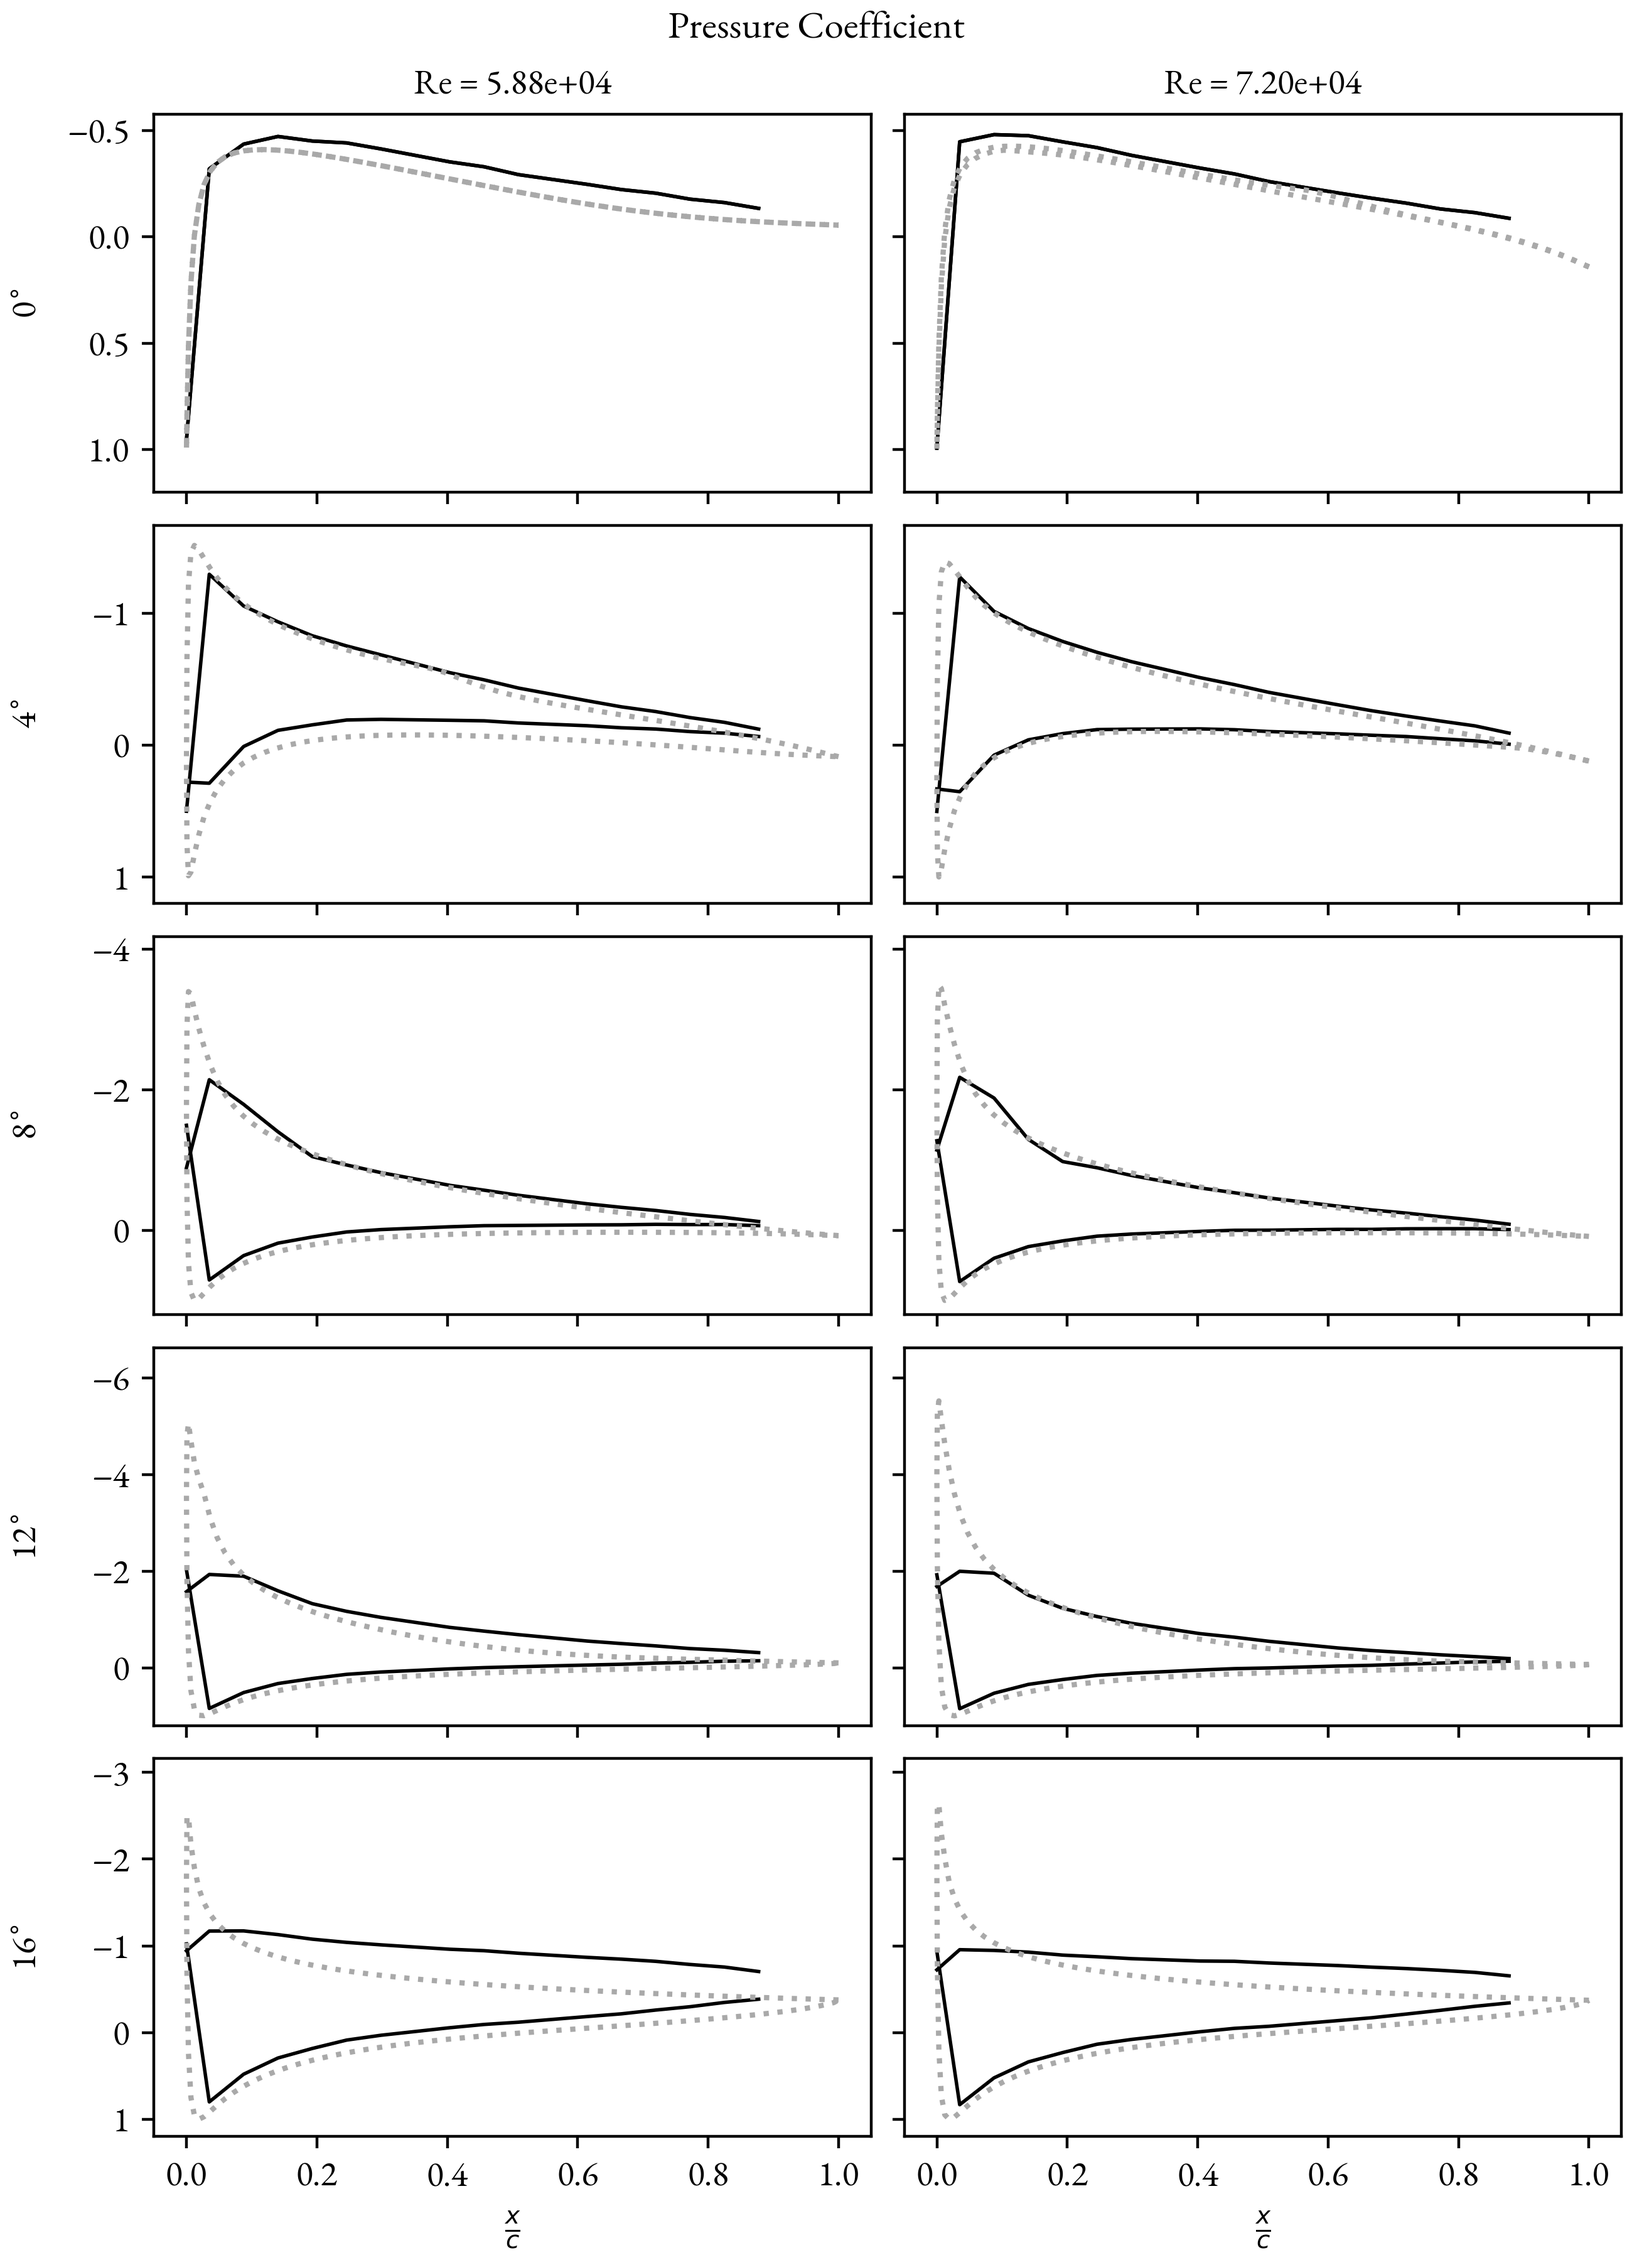
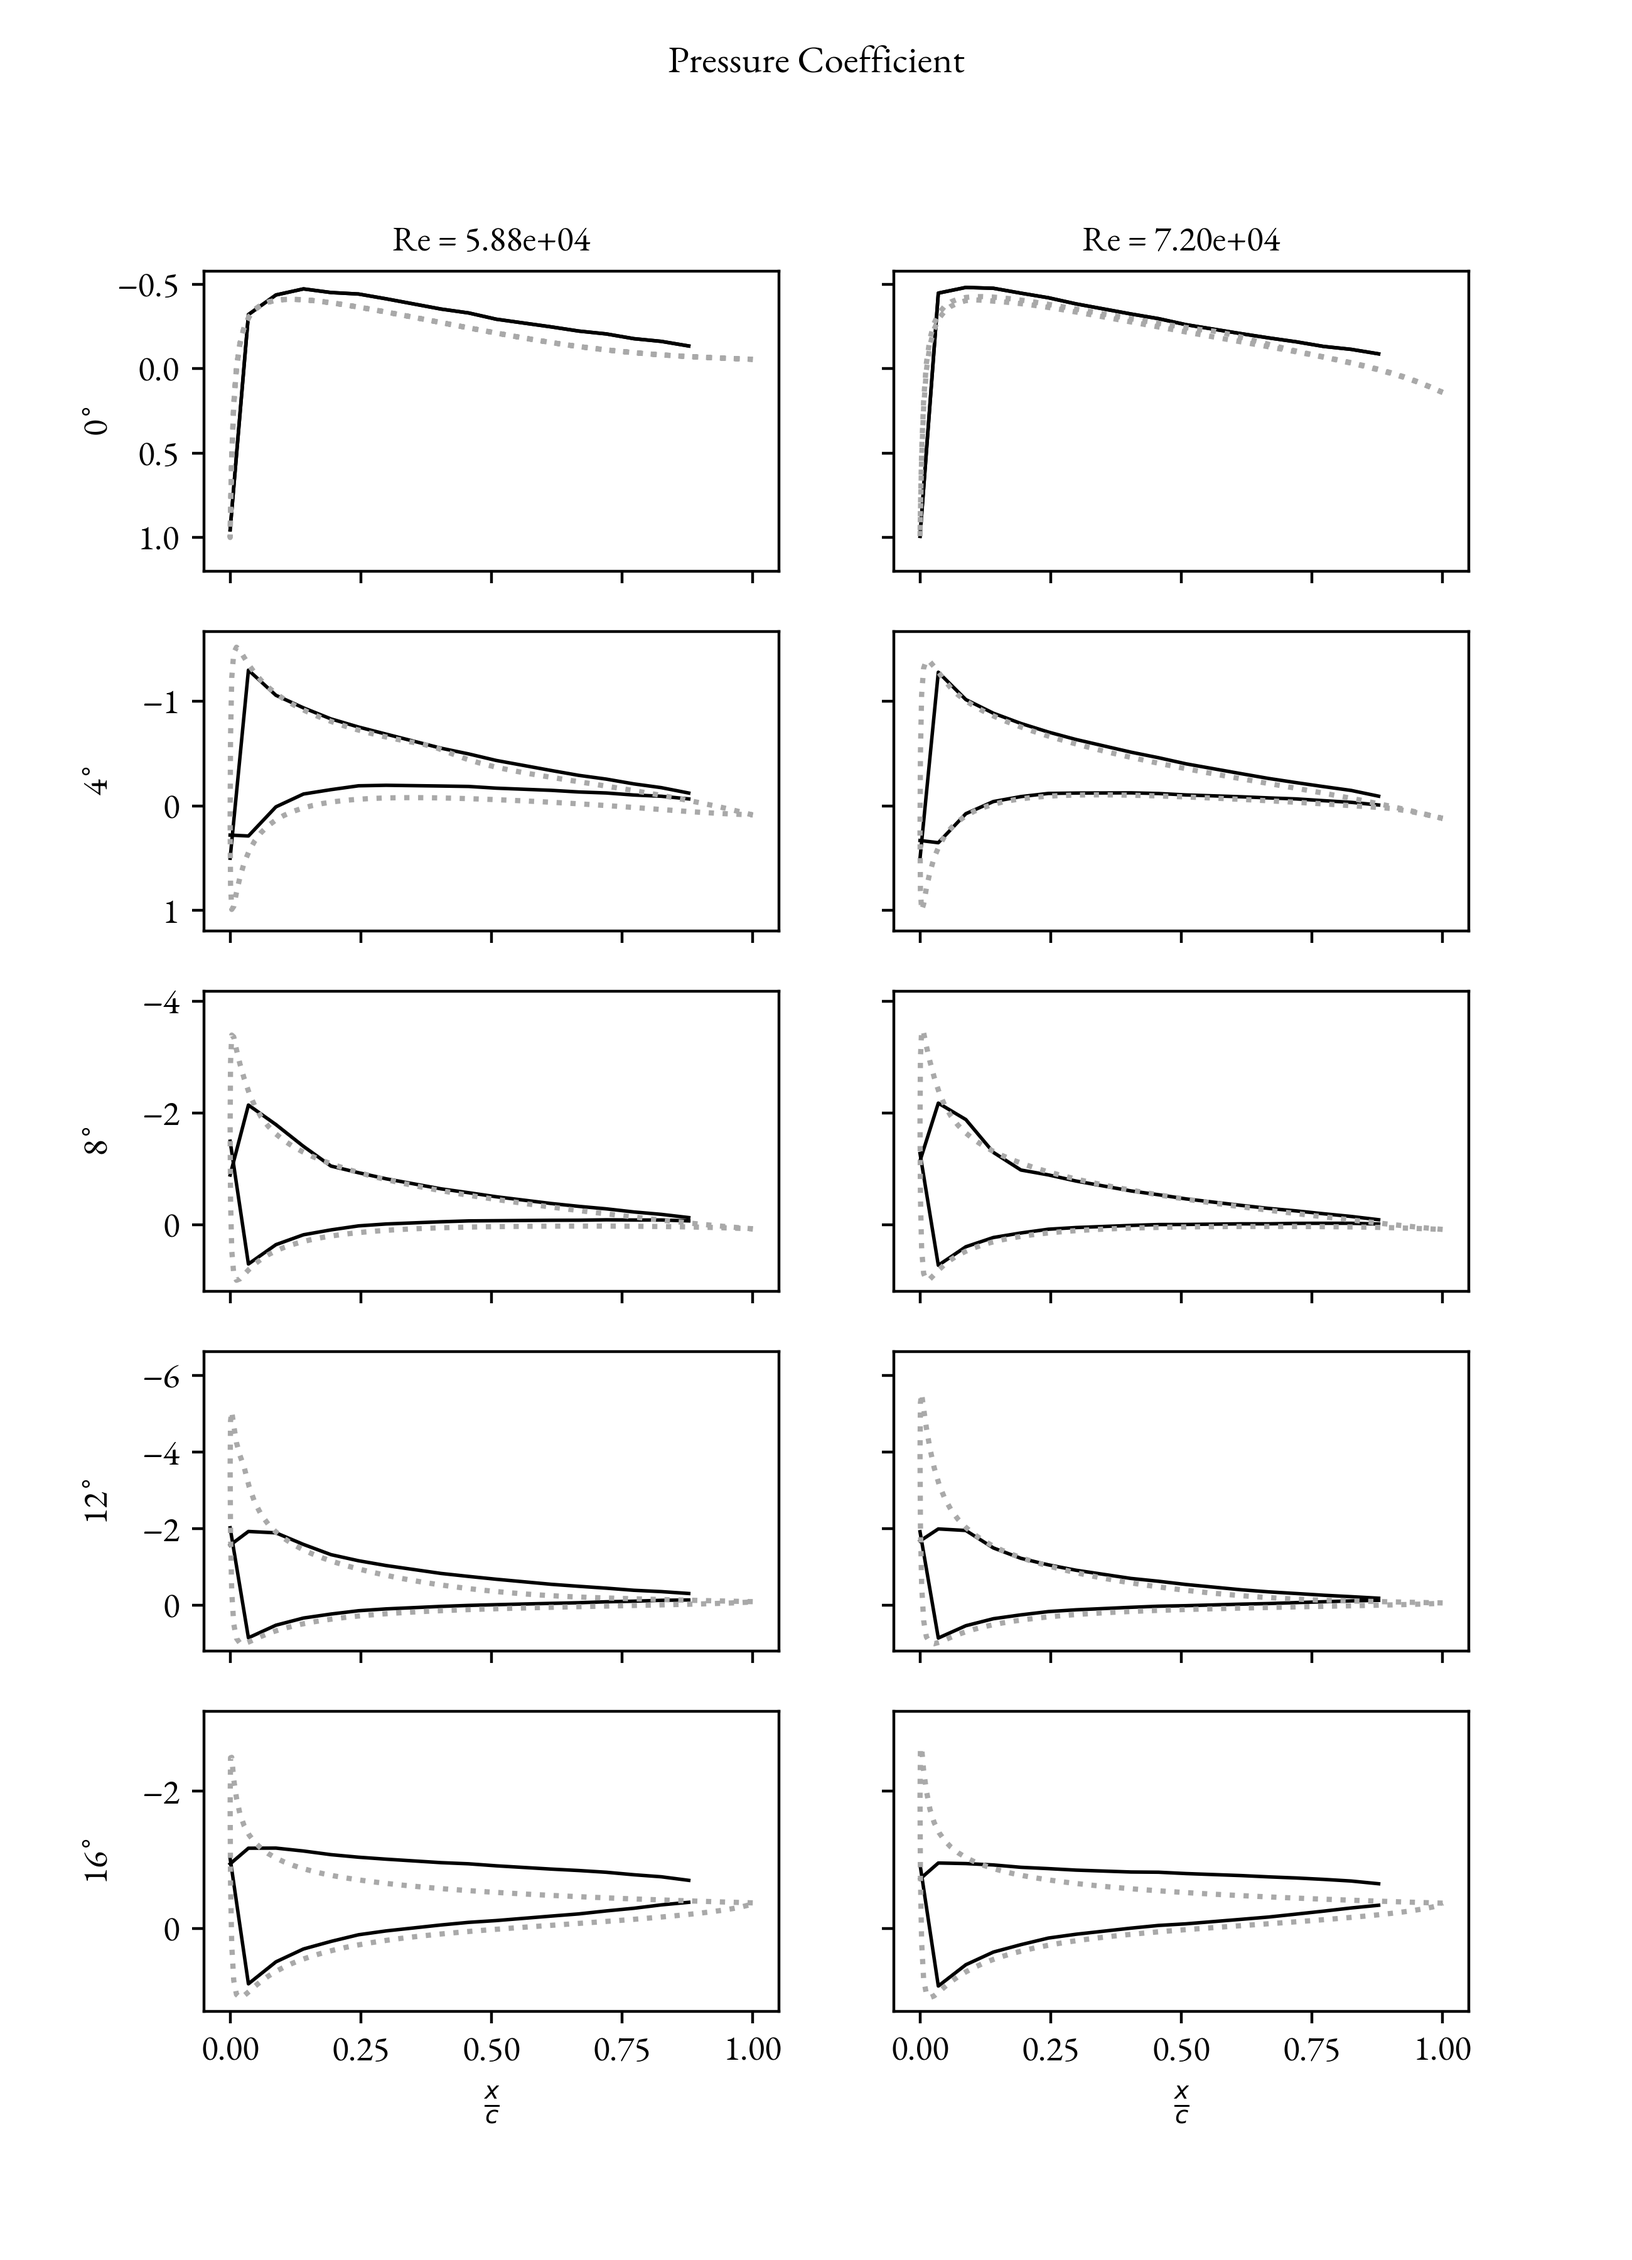
updates

diff --git a/pressure_distributions.py b/pressure_distributions.py
@@ -36,7 +36,7 @@ for vel in vs:
 
 
 # Plotting
-fig, axs = plt.subplots(5, 2, figsize=(6.5, 9), sharex='col', sharey='row', layout='constrained')
+fig, axs = plt.subplots(5, 2, figsize=(6.5, 9), sharex='col', sharey='row')
 
 # Titles
 Res = [5.8818e+4, 7.2037e+4]
@@ -61,6 +61,7 @@ for ax, row in zip(axs[:, 0], rows):
     ax.set_ylabel(row, fontsize=10)
     ax.yaxis.set_label_coords(-0.15, 0.5)
 
+legend_lines = [0, 0]
 for j, vel in enumerate(vs):
     for i, a in enumerate(AoAs):
 
@@ -68,19 +69,33 @@ for j, vel in enumerate(vs):
         miny = min(np.min(data_exp[vel][a]), np.min(data_sim[vel][a][:, 1]))
         maxy = max(np.max(data_exp[vel][a]), np.max(data_sim[vel][a][:, 1]))
 
-        axs[i, j].plot(x_tap, data_exp[vel][a],
+        p_exp = axs[i, j].plot(x_tap, data_exp[vel][a],
                        linewidth=1,
-                       color='black')
+                       color='black',
+                       label='Experimental')
 
-        axs[i, j].plot(data_sim[vel][a][:, 0], data_sim[vel][a][:, 1],
+        p_sim = axs[i, j].plot(data_sim[vel][a][:, 0], data_sim[vel][a][:, 1],
                        linestyle='dotted',
                        linewidth=1.5,
-                       color='#A9A9A9')
+                       color='#A9A9A9',
+                       label='XFOIL')
         axs[i, j].set_ylim(1.2*maxy, 1.2*miny)
+
+        if i == 0 and j == 0:
+            print(i, j)
+            handles, labels = axs[i, j].get_legend_handles_labels()
+            print(handles)
+            print(labels)
 
         # Set x labels
         if a == 16:
             axs[i, j].set_xlabel(r'$\frac{x}{c}$', fontsize=10)
 
-plt.savefig('charts/pressure_coefficients.png', dpi=400)
+
+# Figure Legend
+#labels = ['Experimental', 'XFOIL']
+#fig.legend(labels, loc='lower right', bbox_to_anchor=(1,-0.1), ncol=len(labels), bbox_transform=fig.transFigure)
+fig.legend(handles[1:], labels[1:], loc='lower right')
+
+#plt.savefig('charts/pressure_coefficients.png', dpi=400)
 plt.show()

diff --git a/coefficients.py b/coefficients.py
@@ -8,6 +8,7 @@ from IPython.display import display
 from scipy.interpolate import interp1d, InterpolatedUnivariateSpline
 from scipy.integrate import quadrature, simps, quad
 import itertools
+import pandas as pd
 
 
 def integrand(x, f1, f2, sign=1):
@@ -167,13 +168,16 @@ for file in files:
     coeff_data[file[0]][idx, 1] = L
     coeff_data[file[0]][idx, 2] = D
 
-plt.plot(coeff_data['v1'][:, 0], coeff_data['v1'][:, 1]/coeff_data['v1'][:, 2])
+# Load Simulation Data
+sim_data = {'v1':0, 'v2':0}
+sim_data['v1'] = pd.read_fwf('sim_coeffs/V1.txt', skiprows=list(range(9))+[10], usecols=(0, 1, 2, 4))
+sim_data['v1'].dropna(axis=0, inplace=True)
+sim_data['v2'] = pd.read_fwf('sim_coeffs/V2.txt', skiprows=list(range(9))+[10], usecols=(0, 1, 2, 4))
+sim_data['v2'].dropna(axis=0, inplace=True)
 
-sim_cl = np.loadtxt('sim_coeffs/v2_cl.csv', delimiter=',', skiprows=1, usecols=(0, 1))
-sim_cd = np.loadtxt('sim_coeffs/v2_cd.csv', delimiter=',', skiprows=1, usecols=(0, 1))
-sim_r = np.zeros(sim_cl.shape)
-sim_r[:, 0] = sim_cl[:, 0]
-sim_r[:, 1] = sim_cl[:, 1]/sim_cd[:, 1]
+coeff = 'CD'
+vel = 2
 
-#plt.plot(sim_r[:, 0], sim_r[:, 1])
+plt.plot(sim_data['v{0}'.format(vel)]['alpha'], sim_data['v{0}'.format(vel)][coeff])
+plt.plot(coeff_data['v{0}'.format(vel)][:, 0], coeff_data['v{0}'.format(vel)][:, 1 if coeff == 'CL' else 2])
 plt.show()
